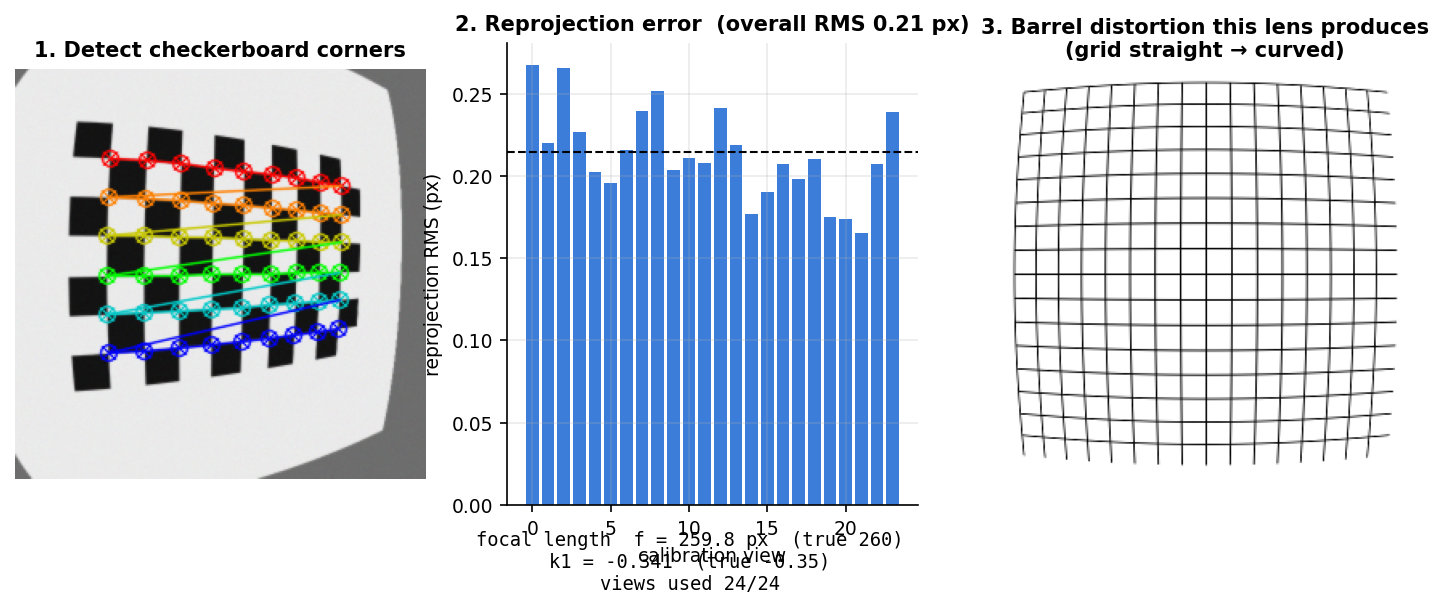
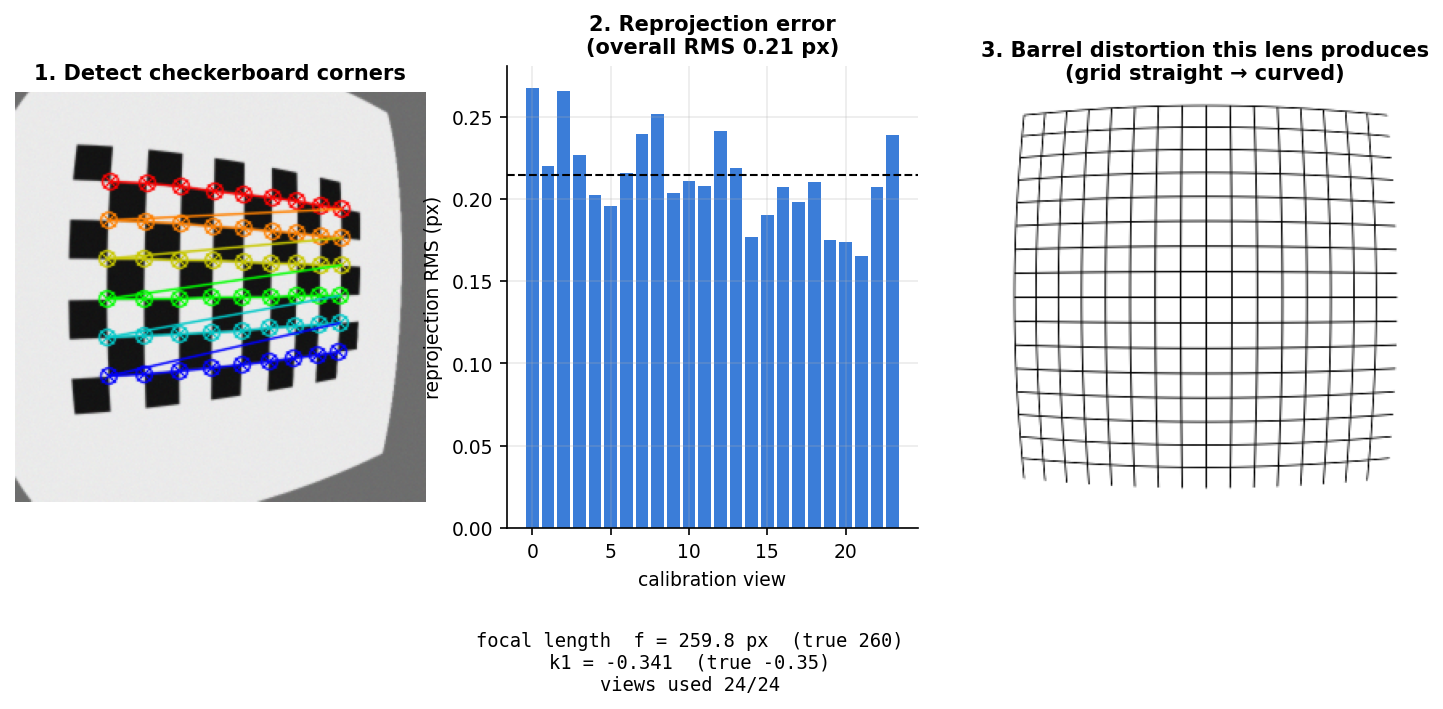
Fix calibration figure label overlap; refresh calibration results

diff --git a/wound_cv/experiments.py b/wound_cv/experiments.py
@@ -114,7 +114,7 @@ def stage_calib():
     ax[0].imshow(rgb(vis)); ax[0].set_title("1. Detect checkerboard corners"); ax[0].axis("off")
     ax[1].bar(range(len(c["per_view"])), c["per_view"], color="#3b7dd8")
     ax[1].axhline(c["rms"], color="k", ls="--", lw=1); ax[1].set_xlabel("calibration view"); ax[1].set_ylabel("reprojection RMS (px)")
-    ax[1].set_title(f"2. Reprojection error  (overall RMS {c['rms']:.2f} px)")
+    ax[1].set_title(f"2. Reprojection error\n(overall RMS {c['rms']:.2f} px)")
     # undistortion grid demo
     g = np.full((sim.IMG, sim.IMG, 3), 255, np.uint8)
     for t in range(0, sim.IMG, 16):
@@ -125,7 +125,7 @@ def stage_calib():
     ax[2].imshow(warped); ax[2].axis("off"); ax[2].set_title("3. Barrel distortion this lens produces\n(grid straight → curved)")
     txt = (f"focal length  f = {K[0, 0]:.1f} px  (true {sim.F_PX:.0f})\nk1 = {d[0]:.3f}  (true {sim.K1_TRUE:.2f})\n"
            f"views used {c['n_used']}/{c['n_views']}")
-    fig.text(0.5, -0.03, txt, ha="center", fontsize=9, family="monospace")
+    fig.text(0.5, -0.16, txt, ha="center", fontsize=9, family="monospace")
     save(fig, "01_calibration.png")
     json.dump(dict(f=float(K[0, 0]), cx=float(K[0, 2]), cy=float(K[1, 2]), k1=float(d[0]), rms=c["rms"],
                    f_true=sim.F_PX, k1_true=sim.K1_TRUE, used=c["n_used"]), open(os.path.join(RES, "calibration.json"), "w"), indent=1)
